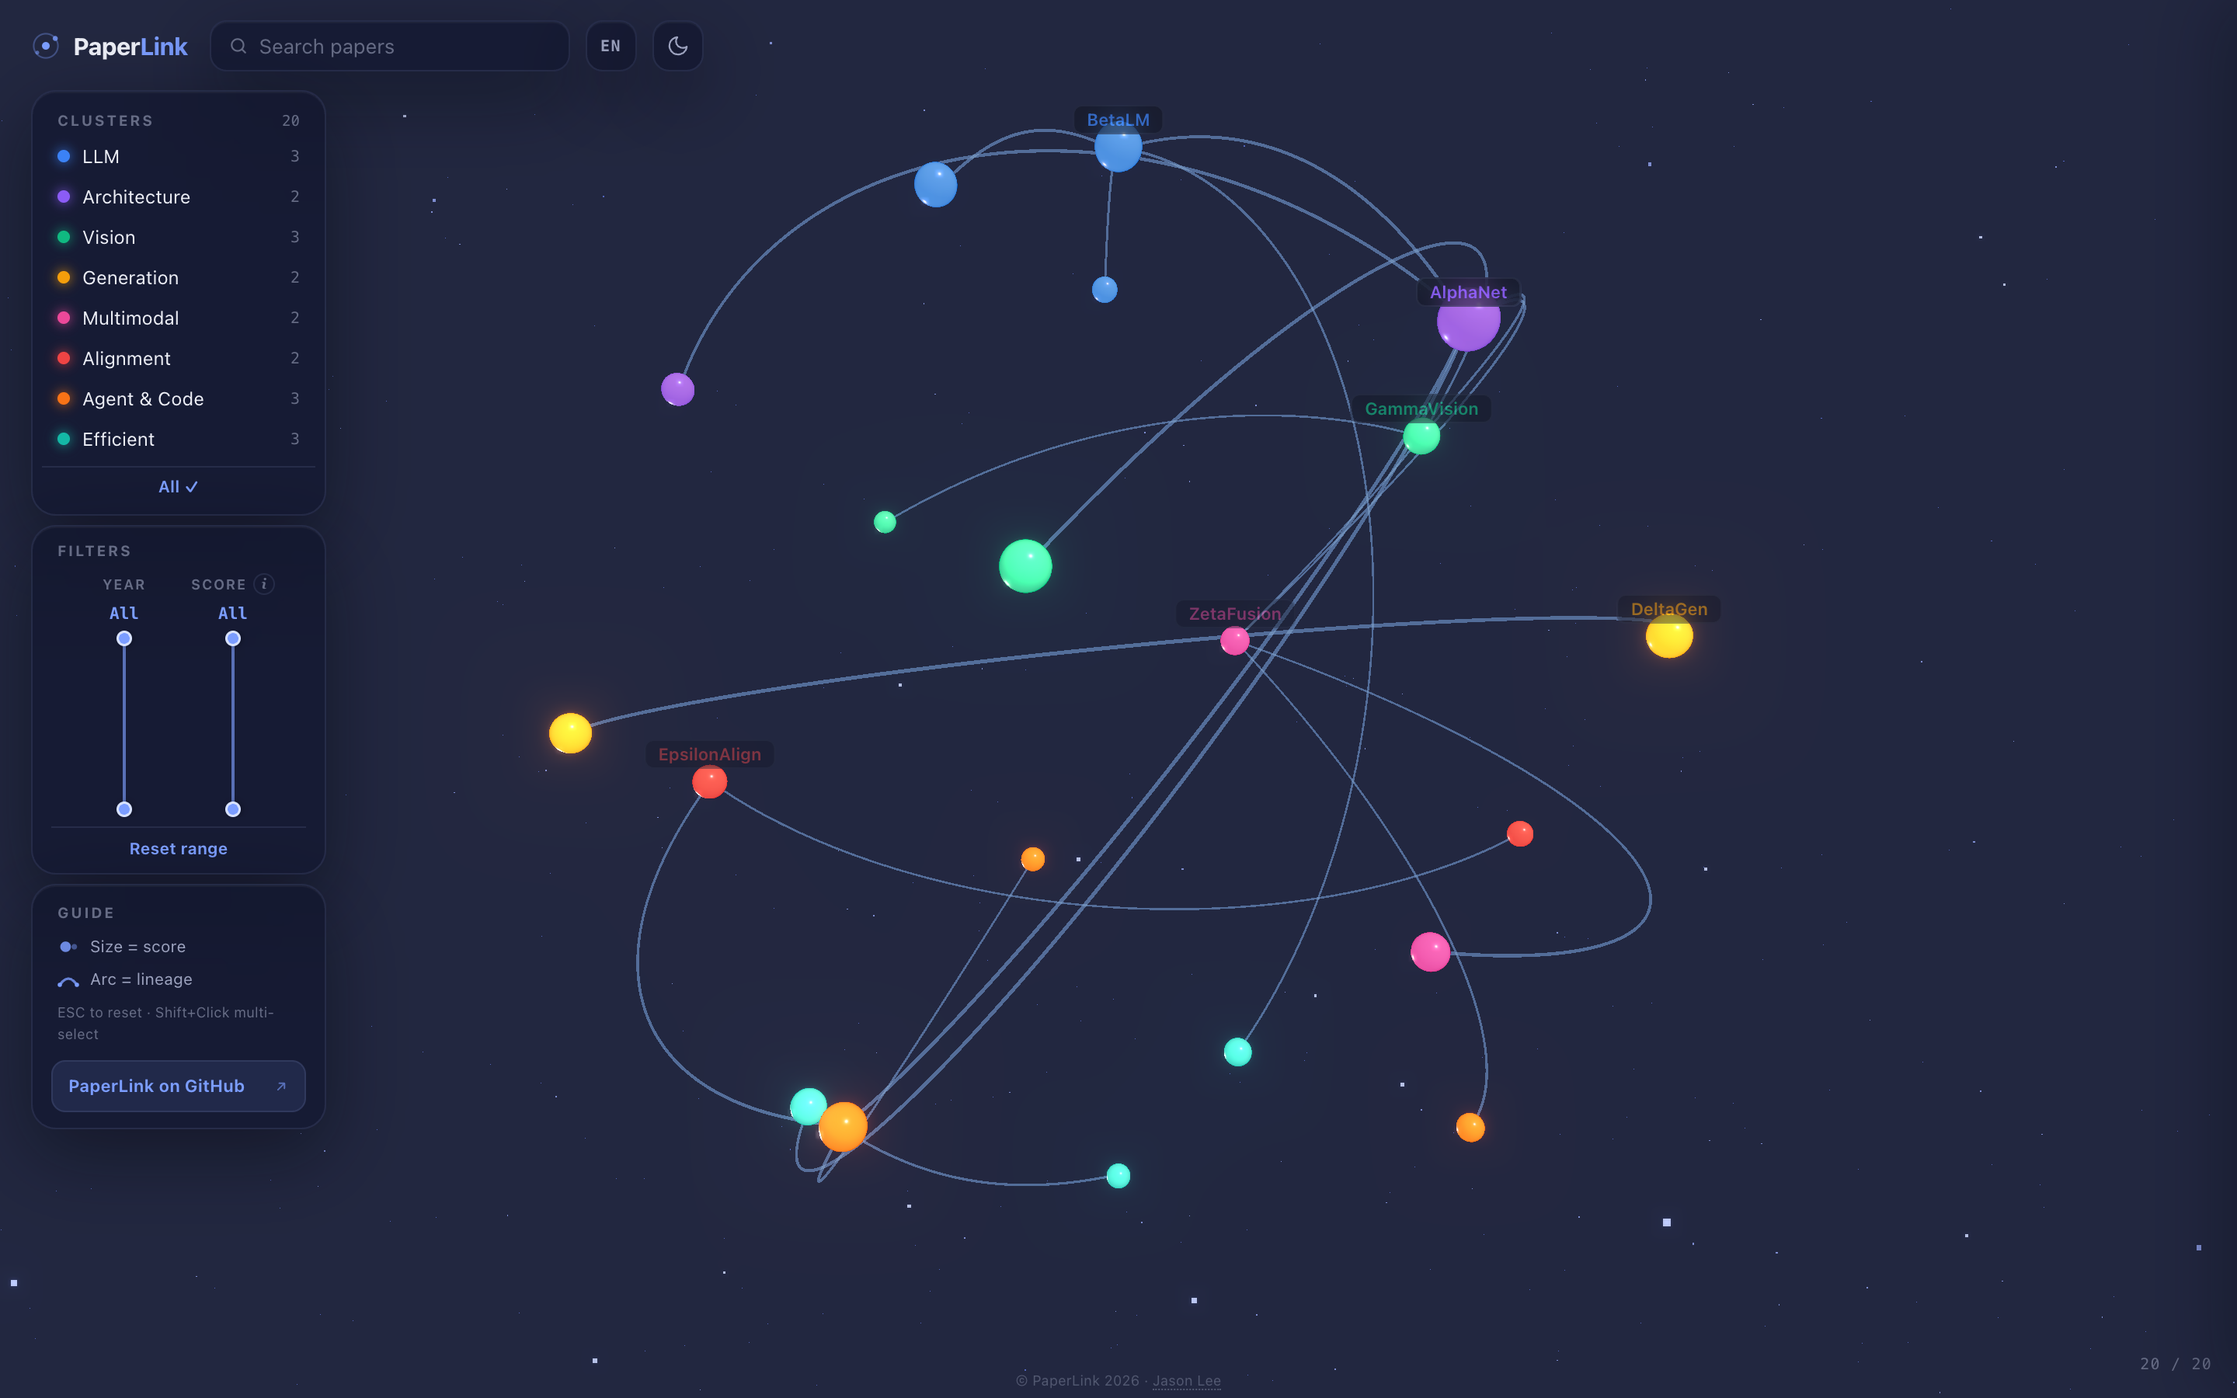
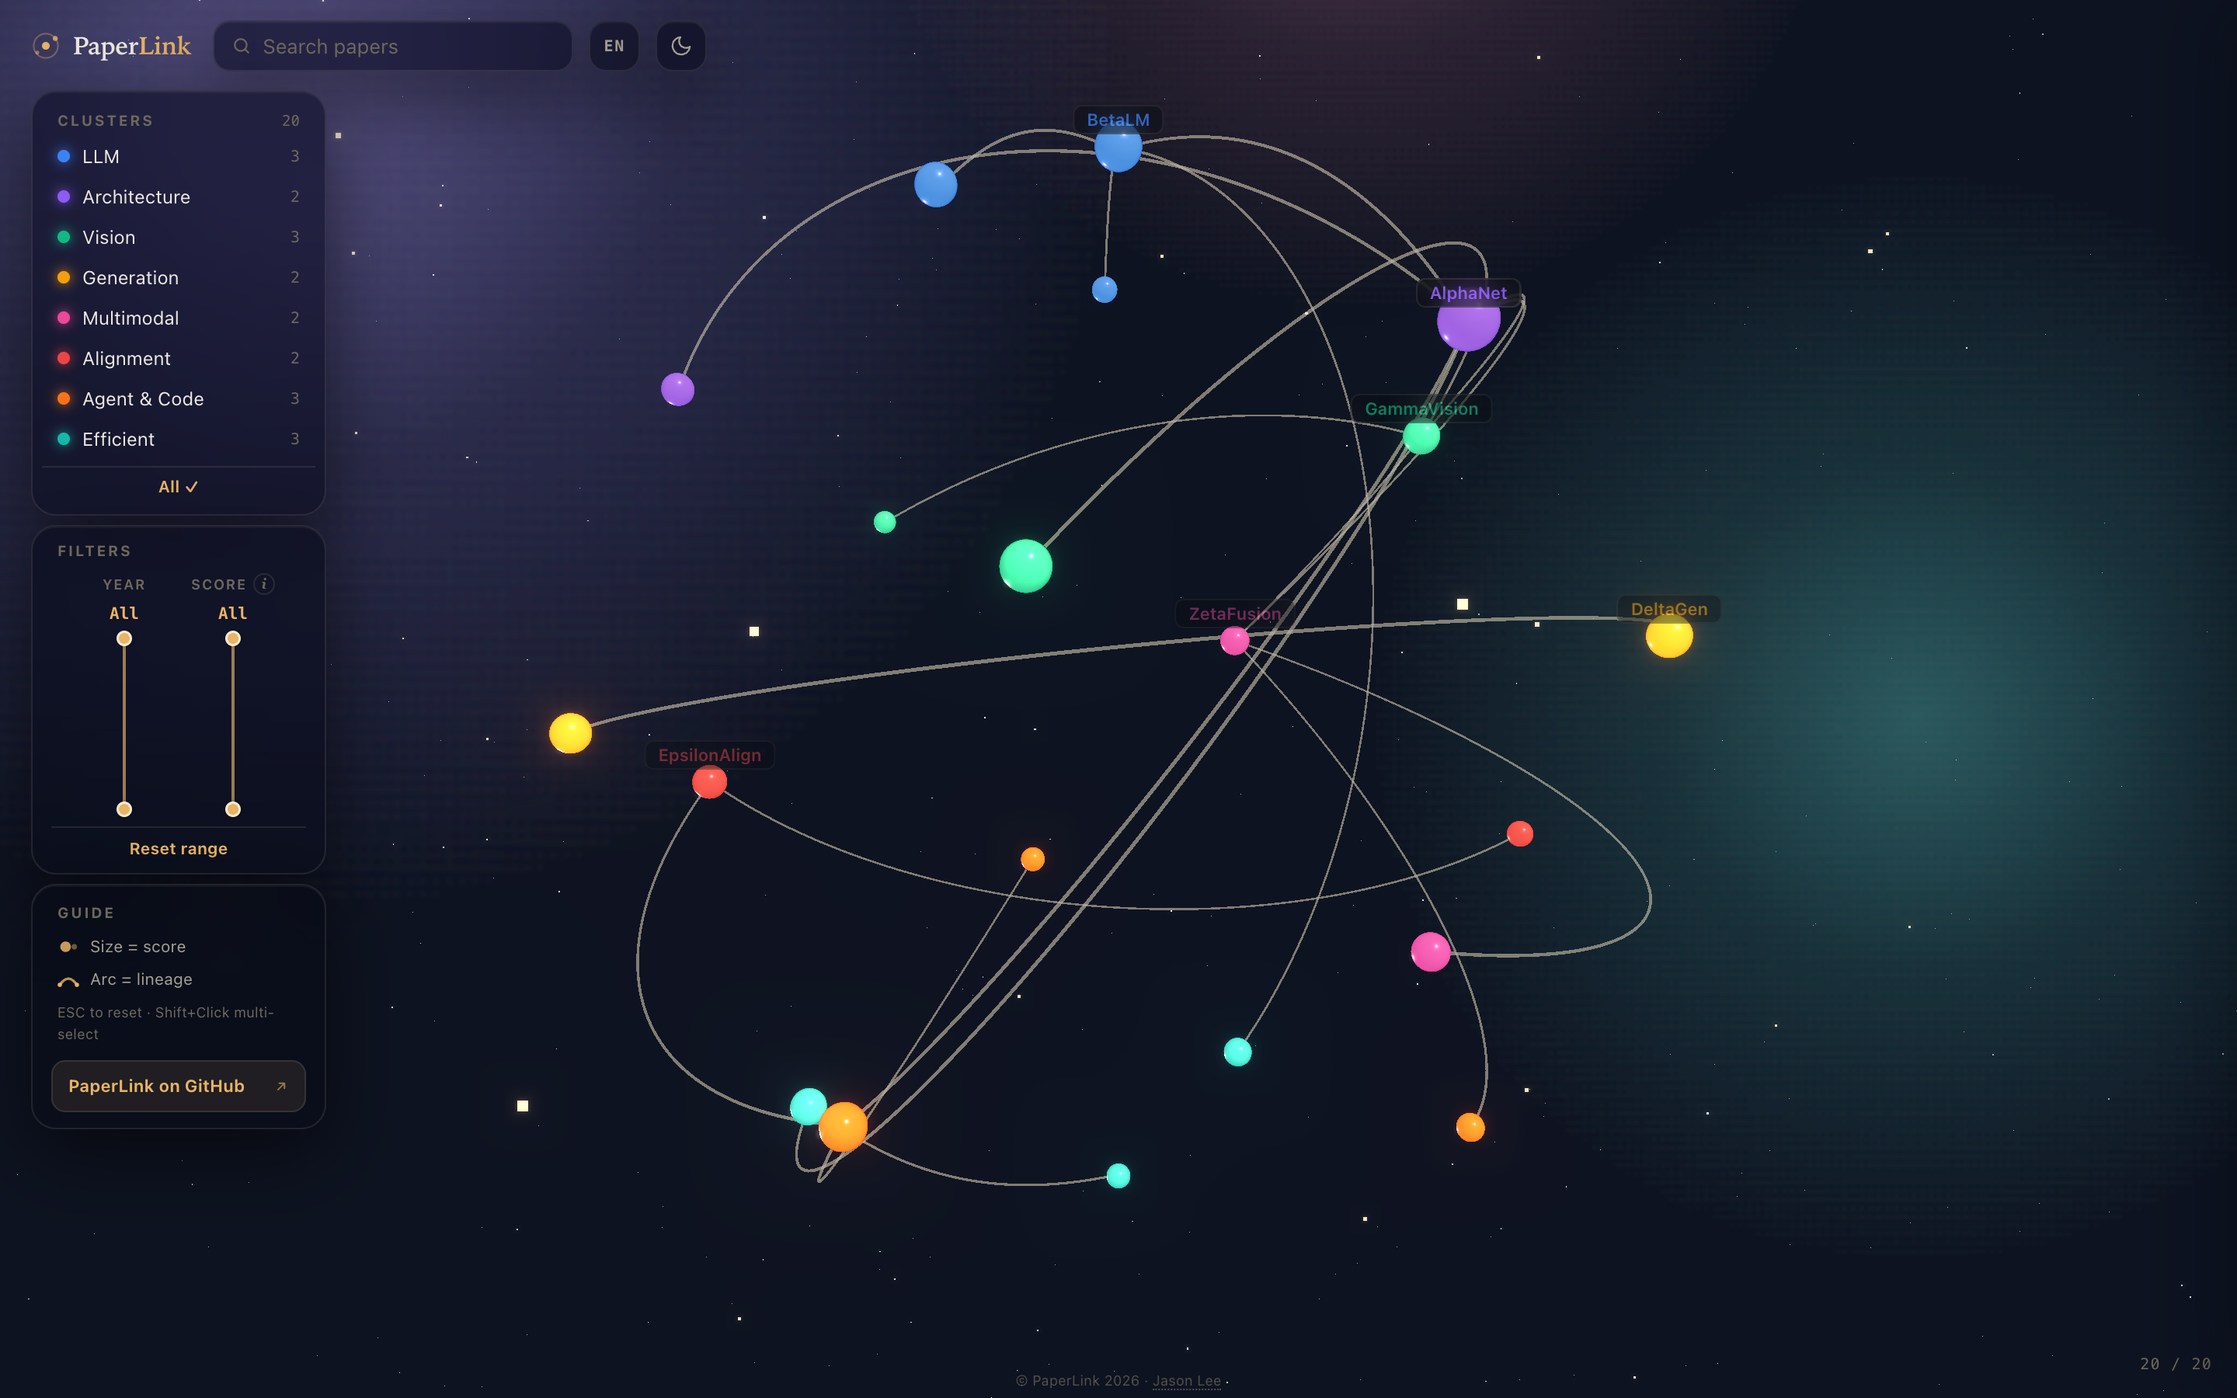
Recolor to a true deep-space palette with starlight gold accents
- Background: navy → near-black deep space (#030407); light theme → warm
  ivory 'paper star atlas' (#f4f1ea) with sepia ink tones
- Accent: periwinkle blue → starlight gold (#e8b465 dark / #8a6520 light),
  applied across sliders, links, CTA, detail panel
- Scene: violet/teal/rose nebula sprites (dark only), star layers mixed
  cool-white / warm-white / gold, lineage arcs as pale constellation lines
- Serif display type (New York/Georgia) for wordmark, tooltip and panel titles
- Refreshed README screenshots

diff --git a/index.html b/index.html
@@ -3,8 +3,8 @@
 <head>
 <meta charset="utf-8">
 <meta name="viewport" content="width=device-width, initial-scale=1, maximum-scale=1, user-scalable=no, viewport-fit=cover">
-<meta name="theme-color" content="#07080f" media="(prefers-color-scheme: dark)">
-<meta name="theme-color" content="#eef0f6" media="(prefers-color-scheme: light)">
+<meta name="theme-color" content="#030407" media="(prefers-color-scheme: dark)">
+<meta name="theme-color" content="#f4f1ea" media="(prefers-color-scheme: light)">
 <meta name="apple-mobile-web-app-capable" content="yes">
 <meta name="apple-mobile-web-app-status-bar-style" content="black-translucent">
 <title>PaperLink — Research Paper Galaxy</title>
@@ -23,25 +23,28 @@ window.__PG_I18N__={"ko":{"lang.toggleTitle":"Language","lang.toggleLabel":"KO",
 </script>
 <style>
 :root{
-  --bg:#07080f;
-  --glass:rgba(15,17,30,.55);
-  --glass-border:rgba(148,160,220,.13);
-  --glass-shine:rgba(255,255,255,.035);
-  --text:#eceef6;--muted:#9ba1bd;--faint:#666c85;
-  --accent:#7b9dff;
-  --accent-soft:rgba(123,157,255,.11);
-  --shadow:0 16px 48px rgba(2,4,12,.45),inset 0 1px 0 var(--glass-shine);
+  --bg:#030407;
+  --glass:rgba(9,10,16,.6);
+  --glass-border:rgba(196,186,162,.13);
+  --glass-shine:rgba(255,244,224,.04);
+  --text:#ece9e2;--muted:#a49f93;--faint:#6d685d;
+  --accent:#e8b465;
+  --accent-contrast:#241c0d;
+  --accent-soft:rgba(232,180,101,.10);
+  --shadow:0 16px 48px rgba(0,0,0,.55),inset 0 1px 0 var(--glass-shine);
   --mono:ui-monospace,'SF Mono',SFMono-Regular,Menlo,Consolas,monospace;
+  --display:ui-serif,'New York','Iowan Old Style',Georgia,'Times New Roman',serif;
 }
 .light{
-  --bg:#eef0f6;
-  --glass:rgba(255,255,255,.66);
-  --glass-border:rgba(70,80,120,.14);
-  --glass-shine:rgba(255,255,255,.6);
-  --text:#171a2b;--muted:#5d6379;--faint:#8d93a8;
-  --accent:#3056c8;
-  --accent-soft:rgba(48,86,200,.08);
-  --shadow:0 12px 36px rgba(23,26,43,.10),inset 0 1px 0 var(--glass-shine);
+  --bg:#f4f1ea;
+  --glass:rgba(255,253,248,.72);
+  --glass-border:rgba(90,80,60,.16);
+  --glass-shine:rgba(255,255,255,.65);
+  --text:#221f1a;--muted:#6b6559;--faint:#99927f;
+  --accent:#8a6520;
+  --accent-contrast:#fbf7ee;
+  --accent-soft:rgba(138,101,32,.09);
+  --shadow:0 12px 36px rgba(44,38,26,.10),inset 0 1px 0 var(--glass-shine);
 }
 *{margin:0;padding:0;box-sizing:border-box}
 html{margin:0;padding:0;height:100%;background:var(--bg);overflow:hidden}
@@ -69,7 +72,7 @@ svg{display:block}
 /* ── Header ── */
 .hdr{position:fixed;top:0;left:0;right:0;padding:13px 20px;display:flex;align-items:center;gap:10px;z-index:10;pointer-events:none}
 .hdr>*{pointer-events:auto}
-.logo{display:flex;align-items:center;gap:8px;font-size:15.5px;font-weight:750;letter-spacing:-.02em;margin-right:4px;user-select:none;cursor:default}
+.logo{display:flex;align-items:center;gap:8px;font-family:var(--display);font-size:16px;font-weight:700;letter-spacing:-.01em;margin-right:4px;user-select:none;cursor:default}
 .logo-mark{width:19px;height:19px;color:var(--accent);flex-shrink:0}
 .logo-accent{color:var(--accent)}
 .search-wrap{display:flex;align-items:center;gap:7px;padding:0 11px;border-radius:11px;width:232px;height:33px;transition:border-color .15s,box-shadow .15s}
@@ -98,7 +101,7 @@ svg{display:block}
 .tip{position:fixed;pointer-events:none;z-index:20;border-radius:14px;padding:13px 15px;max-width:300px;opacity:0;transform:translateY(6px) scale(.97);transition:opacity .15s,transform .15s}
 .tip.show{opacity:1;transform:none}
 .tip-rank{font-family:var(--mono);font-size:9.5px;color:var(--faint);letter-spacing:.05em}
-.tip-alias{font-size:16px;font-weight:750;margin:3px 0 2px;letter-spacing:-.01em}
+.tip-alias{font-family:var(--display);font-size:16.5px;font-weight:700;margin:3px 0 2px;letter-spacing:-.01em}
 .tip-title{font-size:11px;color:var(--muted);line-height:1.45;margin-bottom:7px}
 .tip-reason{font-size:12px;line-height:1.55}
 .tip-yr{font-family:var(--mono);font-size:9px;color:var(--accent);margin-top:8px;text-transform:uppercase;letter-spacing:.08em}
@@ -113,14 +116,14 @@ svg{display:block}
 .pey{display:flex;align-items:center;gap:8px;margin-bottom:8px;flex-wrap:wrap}
 .pchip{font-size:9px;font-weight:750;letter-spacing:.09em;text-transform:uppercase;padding:3.5px 8px;border-radius:6px}
 .pey-meta{font-family:var(--mono);font-size:10px;color:var(--faint);letter-spacing:.04em}
-.pa{font-size:23px;font-weight:800;letter-spacing:-.02em;margin-bottom:4px;line-height:1.15}
+.pa{font-family:var(--display);font-size:24px;font-weight:700;letter-spacing:-.01em;margin-bottom:4px;line-height:1.18}
 .pt{font-size:13px;color:var(--muted);margin-bottom:12px;line-height:1.45}
 .pscore{display:flex;align-items:center;gap:9px;margin:0 0 14px}
 .ps-n{font-family:var(--mono);font-size:15px;font-weight:700;line-height:1}
 .ps-cap{font-size:8.5px;font-weight:700;letter-spacing:.14em;color:var(--faint);text-transform:uppercase}
 .ps-bar{flex:1;height:3px;background:var(--glass-border);border-radius:2px;overflow:hidden}
 .ps-bar i{display:block;height:100%;border-radius:2px}
-.preason{font-size:13px;line-height:1.7;padding:11px 14px;background:var(--accent-soft);border-radius:12px}
+.preason{font-size:13px;line-height:1.7;padding:11px 14px;background:var(--accent-soft);border-left:2px solid var(--accent);border-radius:4px 12px 12px 4px}
 .psec{font-size:9.5px;font-weight:700;color:var(--faint);margin:18px 0 8px;text-transform:uppercase;letter-spacing:.12em;display:flex;align-items:center;gap:8px}
 .psec::after{content:'';flex:1;height:1px;background:var(--glass-border)}
 .pol{font-size:13.5px;line-height:1.6}
@@ -138,7 +141,7 @@ svg{display:block}
 .pcta{margin:18px 0 2px;padding:14px 16px;border:1px solid var(--glass-border);border-left:3px solid var(--accent);border-radius:12px;background:var(--accent-soft)}
 .pcta-ey{font-size:9.5px;font-weight:750;letter-spacing:.12em;text-transform:uppercase;color:var(--accent);margin-bottom:6px}
 .pcta-txt{font-size:12.5px;line-height:1.6;margin-bottom:11px;opacity:.9}
-.pcta-btn{display:inline-flex;align-items:center;gap:6px;background:var(--accent);color:#fff;padding:7px 14px;border-radius:8px;font-weight:650;font-size:12px;text-decoration:none;transition:transform .15s;letter-spacing:-.01em}
+.pcta-btn{display:inline-flex;align-items:center;gap:6px;background:var(--accent);color:var(--accent-contrast);padding:7px 14px;border-radius:8px;font-weight:650;font-size:12px;text-decoration:none;transition:transform .15s;letter-spacing:-.01em}
 .pcta-btn:hover{transform:translateY(-1px)}
 .pcta-btn.soon{background:transparent;color:var(--muted)}
 .pcta-btn svg{width:11px;height:11px}
@@ -178,8 +181,8 @@ svg{display:block}
 .brand-link[hidden]{display:none}
 
 /* ── Node labels / stats / footer ── */
-.node-label{position:absolute;font-size:11px;color:#fff;pointer-events:none;white-space:nowrap;transform:translate(-50%,-100%);transition:opacity .2s;font-weight:600;letter-spacing:-.01em;background:rgba(8,9,18,.5);backdrop-filter:blur(8px);-webkit-backdrop-filter:blur(8px);padding:2px 8px;border-radius:6px;border:1px solid rgba(120,130,180,.15)}
-.light .node-label{color:#171a2b;background:rgba(255,255,255,.6);border-color:rgba(70,80,120,.18);box-shadow:0 1px 4px rgba(0,0,0,.06)}
+.node-label{position:absolute;font-size:11px;color:#f4efe6;pointer-events:none;white-space:nowrap;transform:translate(-50%,-100%);transition:opacity .2s;font-weight:600;letter-spacing:-.01em;background:rgba(4,5,9,.55);backdrop-filter:blur(8px);-webkit-backdrop-filter:blur(8px);padding:2px 8px;border-radius:6px;border:1px solid rgba(196,186,162,.14)}
+.light .node-label{color:#221f1a;background:rgba(255,253,248,.7);border-color:rgba(90,80,60,.2);box-shadow:0 1px 4px rgba(44,38,26,.07)}
 .stats{position:fixed;bottom:16px;right:16px;font-family:var(--mono);font-size:10px;color:var(--faint);z-index:10;letter-spacing:.06em}
 .hint{position:fixed;bottom:16px;left:50%;transform:translateX(-50%);font-size:11px;color:var(--muted);z-index:10;opacity:.5;transition:opacity 1s}
 .foot{position:fixed;bottom:6px;left:50%;transform:translateX(-50%);font-size:9px;color:var(--faint);opacity:.7;z-index:10;white-space:nowrap}
@@ -478,20 +481,43 @@ async function init(){
     });
     return new THREE.Points(geo,mat);
   }
-  // Far tiny stars
-  const stars1=makeStarLayer(2000, 0.01, 0.03, 0x4455aa, 100);
-  // Mid stars
-  const stars2=makeStarLayer(400, 0.03, 0.06, 0x6677cc, 60);
-  // Close bright stars (few)
-  const stars3=makeStarLayer(60, 0.05, 0.12, 0x99aaee, 40);
+  // Far tiny stars (cool white), mid stars (warm white), close bright stars (starlight gold)
+  const stars1=makeStarLayer(2000, 0.01, 0.03, 0x8a91b5, 100);
+  const stars2=makeStarLayer(400, 0.03, 0.06, 0xf2e8d8, 60);
+  const stars3=makeStarLayer(60, 0.05, 0.12, 0xffd9a3, 40);
   scene.add(stars1); scene.add(stars2); scene.add(stars3);
   starPoints={layers:[stars1,stars2,stars3]};
+
+  // Nebula clouds — soft additive sprites far behind the sphere (dark mode only)
+  function makeNebula(hex,size,pos,strength){
+    const cv=document.createElement('canvas');cv.width=cv.height=256;
+    const ctx=cv.getContext('2d');
+    const g=ctx.createRadialGradient(128,128,0,128,128,128);
+    g.addColorStop(0,hexRgba(hex,strength));
+    g.addColorStop(0.45,hexRgba(hex,strength*0.35));
+    g.addColorStop(1,hexRgba(hex,0));
+    ctx.fillStyle=g;ctx.fillRect(0,0,256,256);
+    const mat=new THREE.SpriteMaterial({
+      map:new THREE.CanvasTexture(cv),transparent:true,
+      blending:THREE.AdditiveBlending,depthWrite:false,
+    });
+    const sp=new THREE.Sprite(mat);
+    sp.scale.setScalar(size);
+    sp.position.set(pos[0],pos[1],pos[2]);
+    return sp;
+  }
+  nebulas=[
+    makeNebula('#6d5bd0',65,[-32,14,-48],0.16), // violet
+    makeNebula('#2e8f86',50,[36,-12,-52],0.13), // teal
+    makeNebula('#a34d6f',42,[10,26,-56],0.11),  // rose
+  ];
+  nebulas.forEach(n=>scene.add(n));
 
   // Atom theme: electron orbit rings (visible in light mode only)
   [RADIUS*0.7, RADIUS*1.0, RADIUS*1.3].forEach((r,i)=>{
     const geo=new THREE.RingGeometry(r-0.005, r+0.005, 80);
     const mat=new THREE.MeshBasicMaterial({
-      color:0x8899bb, transparent:true, opacity:0.3, side:THREE.DoubleSide
+      color:0x9a8f78, transparent:true, opacity:0.35, side:THREE.DoubleSide
     });
     const ring=new THREE.Mesh(geo,mat);
     // Tilt each ring differently
@@ -509,7 +535,7 @@ async function init(){
     const positions=new Float32Array(6); // 2 points = line
     geo.setAttribute('position',new THREE.BufferAttribute(positions,3));
     const mat=new THREE.LineBasicMaterial({
-      color:0x88aaff, transparent:true, opacity:0, linewidth:1
+      color:0xffe9c4, transparent:true, opacity:0, linewidth:1
     });
     const line=new THREE.Line(geo,mat);
     line.visible=false;
@@ -579,10 +605,10 @@ async function init(){
   setTimeout(()=>{document.getElementById('hint').style.opacity='0'},4000);
 }
 
-let starPoints, orbitRings=[];
+let starPoints, orbitRings=[], nebulas=[];
 function updateBg(){
   // Dark = Galaxy (deep space), Light = Atom (clean lab)
-  renderer.setClearColor(isDark?0x07080f:0xeef0f6);
+  renderer.setClearColor(isDark?0x030407:0xf4f1ea);
 
   // Bloom
   if(bloomPass){
@@ -594,20 +620,22 @@ function updateBg(){
   // Tone mapping
   if(renderer) renderer.toneMappingExposure=isDark?1.2:1.0;
 
-  // Stars (dark=galaxy) ↔ floating atoms (light=atom)
+  // Stars (dark=deep space) ↔ ink dots on paper (light=star atlas)
   if(starPoints?.layers){
-    const darkColors=[0x4455aa,0x6677cc,0x99aaee];
-    // Light: vivid atom particles — must contrast against white bg
-    const lightColors=[0x5577bb,0xcc6655,0x44aa77];
+    const darkColors=[0x8a91b5,0xf2e8d8,0xffd9a3];
+    const lightColors=[0x9a8a68,0x7a6f57,0xb09a70];
     starPoints.layers.forEach((l,i)=>{
       l.material.color.set(isDark?darkColors[i]:lightColors[i]);
-      l.material.opacity=isDark?0.8:0.6;
+      l.material.opacity=isDark?0.85:0.5;
       l.material.blending=isDark?THREE.AdditiveBlending:THREE.NormalBlending;
-      l.material.size=isDark?[0.03,0.06,0.12][i]:[0.06,0.1,0.18][i];
+      l.material.size=isDark?[0.03,0.06,0.12][i]:[0.05,0.09,0.15][i];
     });
   }
 
-  // Orbit rings: hidden in dark, visible in light (electron orbits)
+  // Nebula clouds: dark mode only
+  nebulas.forEach(n=>{ n.visible=isDark; });
+
+  // Orbit rings: hidden in dark, visible in light (atlas instrument lines)
   orbitRings.forEach(r=>{ r.visible=!isDark; });
 
   // Nodes
@@ -639,12 +667,13 @@ function updateBg(){
       if(!tube.userData) return;
       const isLineage=tube.userData.type==='lineage';
       if(isDark){
-        tube.material.color.set(isLineage?0x7799cc:0x556688);
-        tube._baseOpacity=isLineage?0.3:0.08;
+        // Constellation lines: pale silver-gold
+        tube.material.color.set(isLineage?0xbfb8a6:0x6a675f);
+        tube._baseOpacity=isLineage?0.28:0.08;
       } else {
-        // Atom: dark visible bonds on light bg
-        tube.material.color.set(isLineage?0x445577:0x667788);
-        tube._baseOpacity=isLineage?0.7:0.35;
+        // Atlas: sepia ink lines on paper
+        tube.material.color.set(isLineage?0x5a5445:0x827b6a);
+        tube._baseOpacity=isLineage?0.6:0.3;
         tube.material.blending=THREE.NormalBlending;
       }
     });
@@ -737,12 +766,12 @@ function buildEdges(){
     // High-density tessellation for smooth appearance at any zoom level
     const geo=new THREE.TubeGeometry(curve,128,tubeR,12,false);
     const mat=new THREE.MeshBasicMaterial({
-      color:isLineage?0x7799cc:0x556688,
-      transparent:true, opacity:isLineage?0.3:0.08,
+      color:isLineage?0xbfb8a6:0x6a675f,
+      transparent:true, opacity:isLineage?0.28:0.08,
     });
     const tube=new THREE.Mesh(geo,mat);
     tube.userData=e;
-    tube._baseOpacity=isLineage?0.3:0.08;
+    tube._baseOpacity=isLineage?0.28:0.08;
     tube.renderOrder=-1;          // draw edges before nodes
     mat.depthWrite=false;          // don't occlude nodes via depth
     edgeGroup.add(tube);
@@ -899,11 +928,11 @@ function animate(){
     tube.material.opacity+=(targetOp*Math.min(a1,a2)-tube.material.opacity)*0.1;
     if(srcSel||tgtSel){
       const selNode=[...selected].find(s=>s.id===e.source||s.id===e.target);
-      tube.material.color.set(selNode?clusters[selNode.cluster]?.color||'#7b9dff':'#7b9dff');
+      tube.material.color.set(selNode?clusters[selNode.cluster]?.color||'#e8b465':'#e8b465');
     } else if(srcHov||tgtHov){
-      tube.material.color.set(clusters[hovered.cluster]?.color||'#7b9dff');
+      tube.material.color.set(clusters[hovered.cluster]?.color||'#e8b465');
     } else {
-      tube.material.color.set(isDark?0x7799cc:0x445577);
+      tube.material.color.set(isDark?0xbfb8a6:0x5a5445);
     }
   });
 
@@ -1338,10 +1367,10 @@ function bindEvents(){
   function setTheme(dark){
     isDark=dark;
     document.body.classList.toggle('light',!isDark);
-    document.documentElement.style.background=isDark?'#07080f':'#eef0f6';
+    document.documentElement.style.background=isDark?'#030407':'#f4f1ea';
     themeBtn.innerHTML=isDark?ICON_MOON:ICON_SUN;
     // Update Safari bar color
-    document.querySelector('meta[name="theme-color"]')?.setAttribute('content',isDark?'#07080f':'#eef0f6');
+    document.querySelector('meta[name="theme-color"]')?.setAttribute('content',isDark?'#030407':'#f4f1ea');
     updateBg();
   }
   let savedTheme=null;try{savedTheme=localStorage.getItem('pg-theme');}catch(e){}
